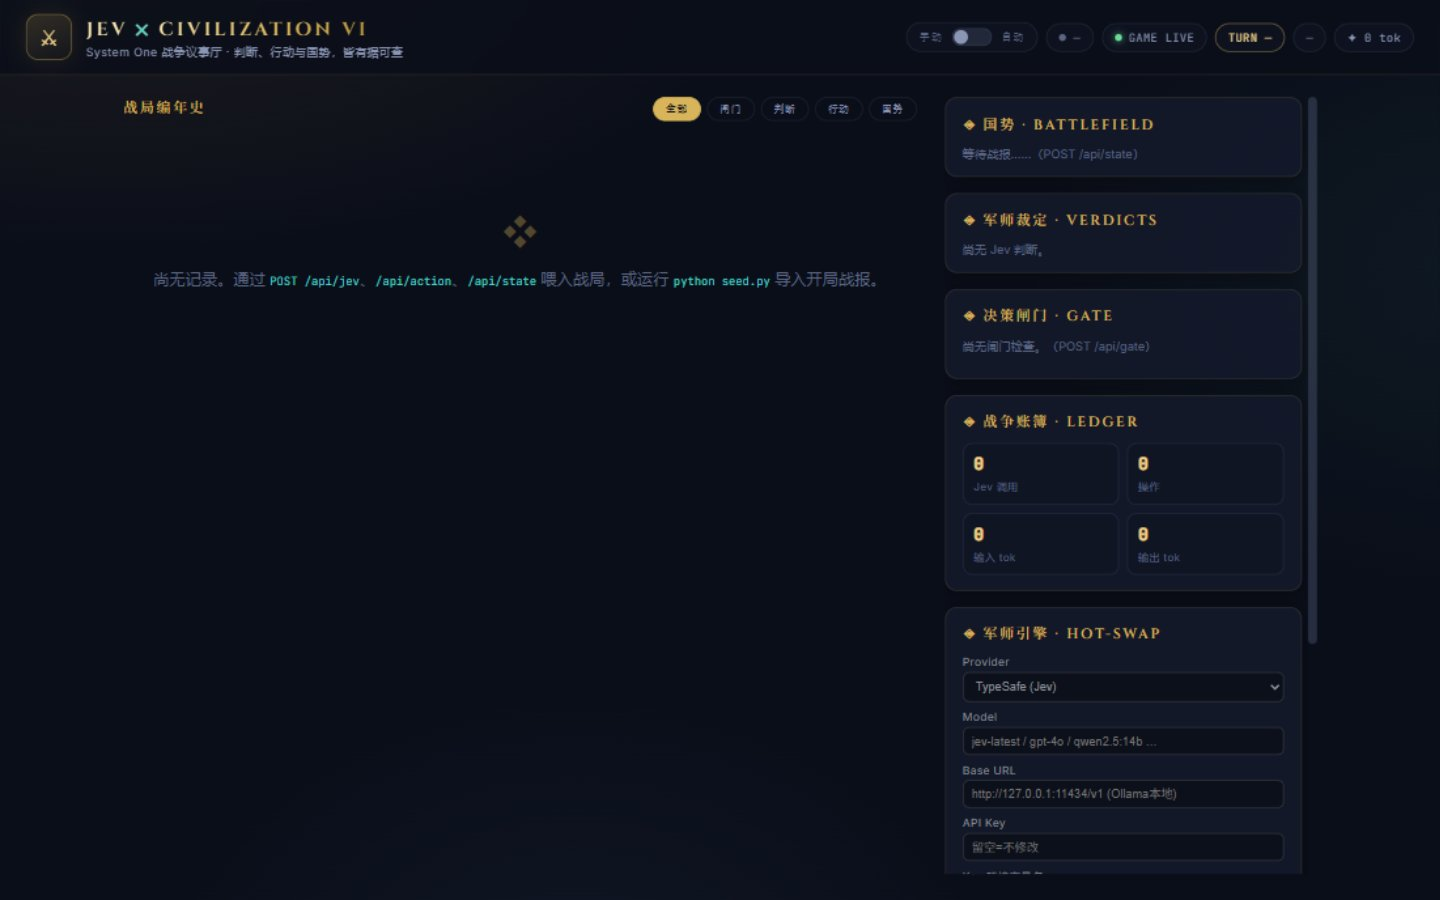
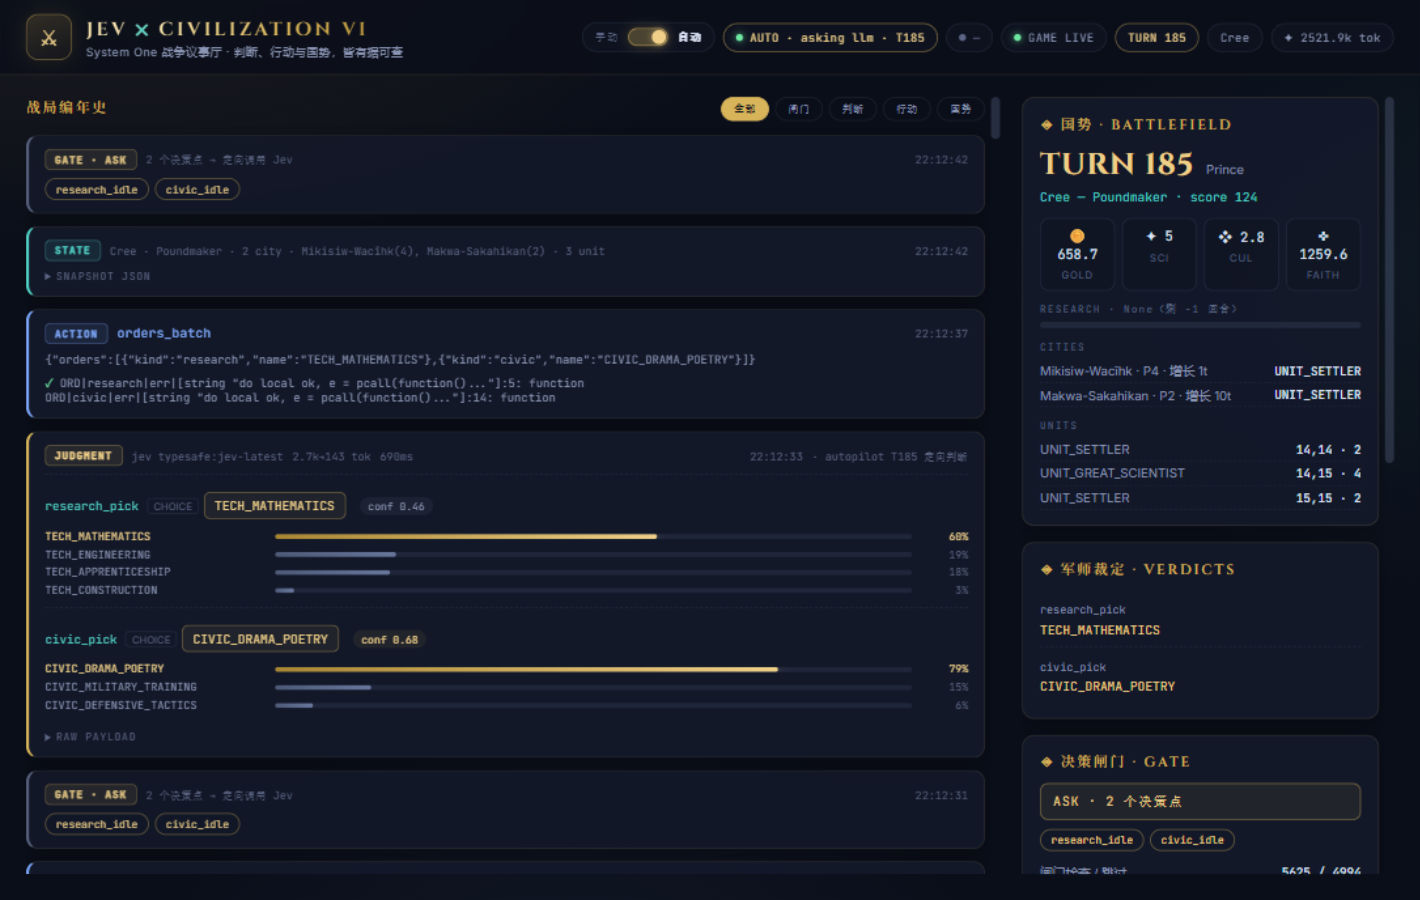
fix: probe diplomacy sessions after the FIRST end_turn timeout
An AI proposal popping up mid-processing stalls end_turn for the full
60s HTTP timeout before the fast path narrates it, then the next poll
finds it — users saw ~90s stalls per popup. The loop now probes
get_diplomacy_sessions immediately after timeout #1 and routes straight
to the diplomacy handler, cutting 30-60s of perceived stall.

diff --git a/server/autopilot.py b/server/autopilot.py
@@ -2384,6 +2384,28 @@ class AutoPilot:
                 if kind in ("timeout", "error"):
                     if kind == "error" and not await asyncio.to_thread(bridge.healthy):
                         raise ConnectionError(f"end_turn transport failed: {text[:150]}")
+                    # Early diplomacy/deal probe after the FIRST timeout: an AI
+                    # proposal popping up mid-processing stalls end_turn for the
+                    # full HTTP timeout before the fast path narrates it —
+                    # probing the sessions directly right away cuts ~30-60s of
+                    # perceived stall per popup.
+                    if consecutive_timeouts == 1:
+                        try:
+                            sess = await asyncio.to_thread(
+                                bridge.act_data, "get_diplomacy_sessions", {})
+                        except Exception:  # noqa: BLE001
+                            sess = None
+                        if isinstance(sess, list) and sess:
+                            total_handled += 1
+                            self._set(step="handling_diplomacy")
+                            st_ = await self._handle_blocker(
+                                bridge, "diplomacy", text, before)
+                            if st_ != "handled":
+                                self._pause("diplomacy session not resolvable")
+                                return
+                            self._set(step="ending_turn")
+                            await asyncio.sleep(1.0)
+                            continue
                     # Repeated HTTP timeouts with no turn advance usually mean
                     # the bridge's end_turn is stuck in its long internal wait
                     # (e.g. units still have moves → game refuses to advance)
